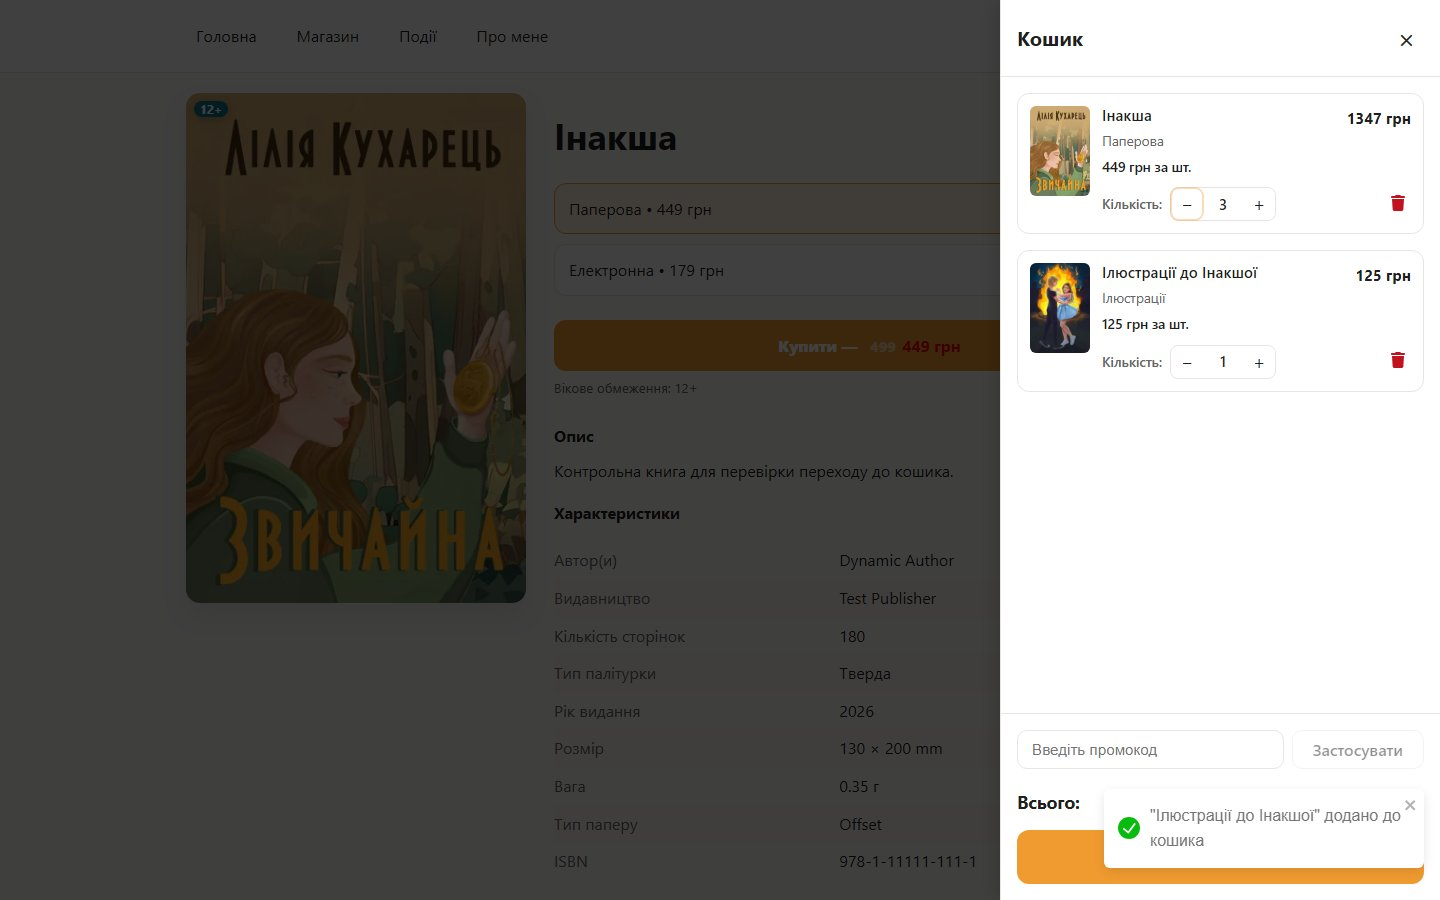
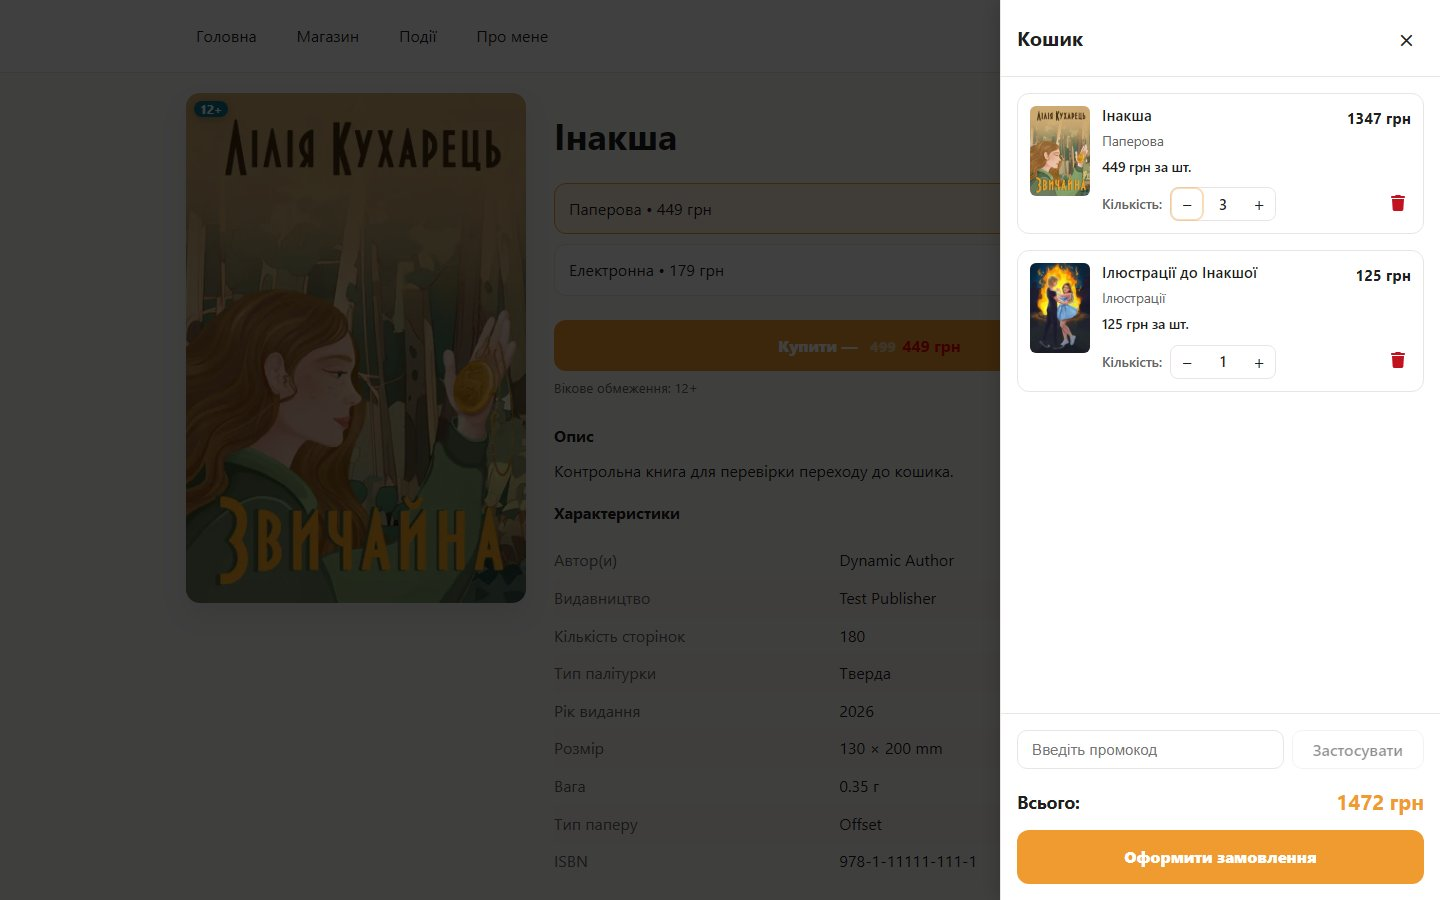
test: capture settled ZVY-64 cart totals [skip netlify]

Changed region(s): [[0.75, 0.8711, 1.0, 0.9644]]

diff --git a/tests/e2e/suggestion-continuation.spec.ts b/tests/e2e/suggestion-continuation.spec.ts
@@ -74,6 +74,8 @@ async function capture(page: Page, info: TestInfo, state: string) {
   await page.evaluate(() => document.fonts.ready);
   await expect.poll(() => page.locator("[role=dialog] img").evaluateAll(images => images.every(image =>
     (image as HTMLImageElement).complete && (image as HTMLImageElement).naturalWidth > 0))).toBe(true);
+  // Capture the settled cart total after the existing success notification expires.
+  await expect(page.locator(".Toastify__toast")).toHaveCount(0, { timeout: 10_000 });
   await page.evaluate(() => window.scrollTo({ top: 0, behavior: "instant" }));
   const directory = path.join(process.cwd(), "docs/storefront-selection/zvy-64", phase);
   await mkdir(directory, { recursive: true });

diff --git a/docs/storefront-selection/zvy-64/REPORT.md b/docs/storefront-selection/zvy-64/REPORT.md
@@ -40,7 +40,7 @@ Every new scenario blocks non-local hosts and asserts zero invoice requests. Exi
 | Bundle continuation, original quantity three | [After](after/SCR-04-zvychajna-and-inaksha-original-only-1440x900.jpg) | [After](after/SCR-04-zvychajna-and-inaksha-original-only-390x844.jpg) | [After](after/SCR-04-zvychajna-and-inaksha-original-only-360x844.jpg) |
 | Accepted suggestion, original three plus one illustration edition | [After](after/SCR-04-accepted-suggestion-1440x900.jpg) | [After](after/SCR-04-accepted-suggestion-390x844.jpg) | [After](after/SCR-04-accepted-suggestion-360x844.jpg) |
 
-The new continuation has no before cart capture because that action did not exist. Before/after suggestion captures use identical viewports and controlled fixtures with fonts/images loaded and animations disabled. Visual inspection confirms that the Add action remains prominent and the note/cart action fit the required viewports.
+The new continuation has no before cart capture because that action did not exist. Before/after suggestion captures use identical viewports and controlled fixtures with fonts/images loaded and animations disabled. Cart captures wait for the existing success notification to expire so it does not obscure totals. Visual inspection confirms that the Add action remains prominent and the note/cart action fit the required viewports.
 
 ## Acceptance and validation
 
@@ -60,6 +60,7 @@ Local validation:
 - Fixture contracts: four fixtures pass. The sandbox's Windows account lookup caused an infrastructure error on the first fixture run; the normal-host rerun passed.
 - Production build: standalone `npm run build:ci` passed after restoring the final implementation. The browser suite's `test-app.mjs` setup also built and ran the implementation with `next build` followed by `next start` against the API double.
 - Relevant Playwright suite: **82 passed**, including all **34** new scenarios plus **48** existing product-selection, accessibility, keyboard-navigation, mobile-purchase and purchase-flow checks.
+- The final evidence-timing adjustment was followed by another green **34-scenario** run and regenerated after screenshots; lint/typecheck also passed again.
 - Baseline regression control: **12 intentionally failed, six capture scenarios passed** against `13b8ad5`, followed by automatic restoration of the implementation. Both routes fail the missing explanation/action check at all three widths. Five queued Buy clicks produce quantity five instead of one; five queued suggestion Add clicks produce five add-ons and 1,972 UAH instead of one add-on and 1,472 UAH. The same assertions pass in the implementation's 82-check run.
 
 Reproduce with `npm run test:e2e -- suggestion-continuation product-selection accessibility keyboard-navigation mobile-purchase purchase-flow`. Set `ZVY64_EVIDENCE_PHASE=after` to regenerate the 15 after images. For before captures/controls, run the same spec with the three changed application files from `13b8ad5` and `ZVY64_EVIDENCE_PHASE=before`; use `--grep 'capture settled|rapid acceptance|rapid Buy|inaksha: keyboard continuation'`. Restore the implementation afterward. Screenshot scenarios are separate from the intentionally failing regression assertions.
